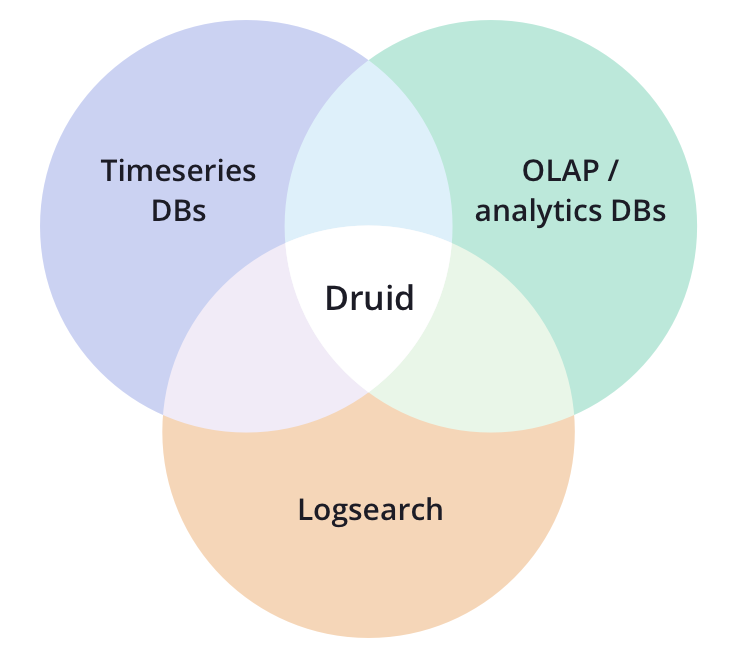
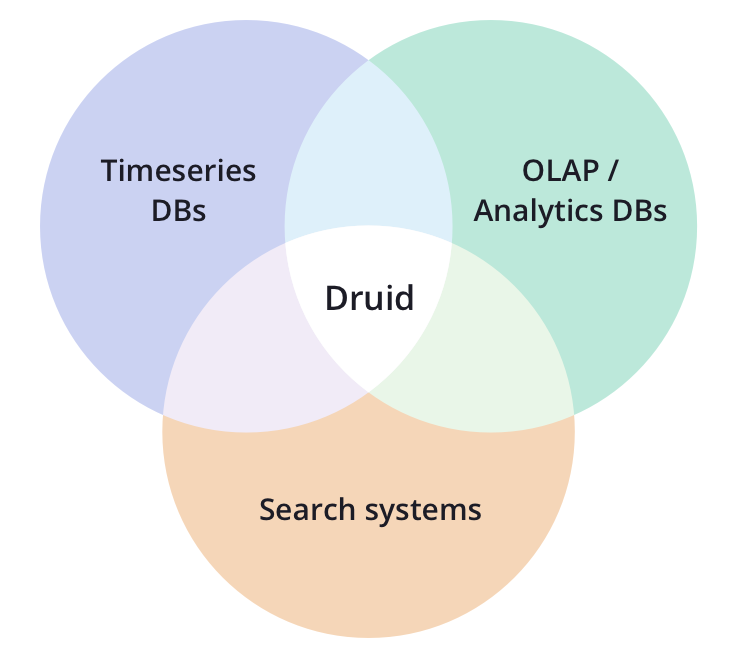
Little style tweaks, fix diagram, and remove broken link (#497)
* small fixes

* remove dead API doc link

* remove dead code

Changed region(s): [[0.3428, 0.7599, 0.6545, 0.8207], [0.6233, 0.304, 0.9038, 0.3343]]

diff --git a/_layouts/doc_page.html b/_layouts/doc_page.html
@@ -15,11 +15,6 @@ sectionid: docs
     <div class="container doc-container">
       {% assign parts = (page.url | split: '/') %}
       {% assign version = parts[2] %}
-      {% if version == 'latest' %}
-         {% assign apiversion = site.druid_latest_version %}
-      {% else %}
-         {% assign apiversion = version %}
-      {% endif %}
 
       {% if version != site.druid_version and version != 'latest' %}
       <p> Looking for the <a href="/docs/{{ site.druid_version }}/">latest stable documentation</a>?</p>
@@ -27,8 +22,9 @@ sectionid: docs
 
       <div class="row">
         <div class="col-md-9 doc-content">
-          <p><a class="btn btn-default btn-xs visible-xs-inline-block visible-sm-inline-block" href="#toc">Table of Contents</a>
-          <a class="btn btn-default btn-xs" href="http://static.druid.io/api/{{ apiversion }}">API documentation</a></p>
+          <p>
+            <a class="btn btn-default btn-xs visible-xs-inline-block visible-sm-inline-block" href="#toc">Table of Contents</a>
+          </p>
           {{ content }}
         </div>
         <div class="col-md-3">

diff --git a/css/main.css b/css/main.css
@@ -188,7 +188,7 @@ html, body {
       line-height: 42px;
       border-radius: 40px;
       text-align: center;
-      font-size: 17px;
+      font-size: 15px;
       background: #CBD2F2;
       color: #1C1C26; }
     .features .feature p {

diff --git a/scss/main.scss b/scss/main.scss
@@ -229,7 +229,7 @@ html, body {
       line-height: 42px;
       border-radius: 40px;
       text-align: center;
-      font-size: 17px;
+      font-size: 15px;
       background: $light-1;
       color: $dark;
     }

diff --git a/css/index.css b/css/index.css
@@ -43,8 +43,9 @@
   display: block; }
 
 .disclaimer {
-  margin-top: 12px;
+  margin-top: 42px;
   font-size: 11px;
+  line-height: 170%;
   color: #aaa; }
   .disclaimer a:hover {
     text-decoration: underline; }

diff --git a/scss/index.scss b/scss/index.scss
@@ -61,8 +61,9 @@
 }
 
 .disclaimer {
-  margin-top: 12px;
+  margin-top: 42px;
   font-size: 11px;
+  line-height: 170%;
   color: #aaa;
 
   a {
